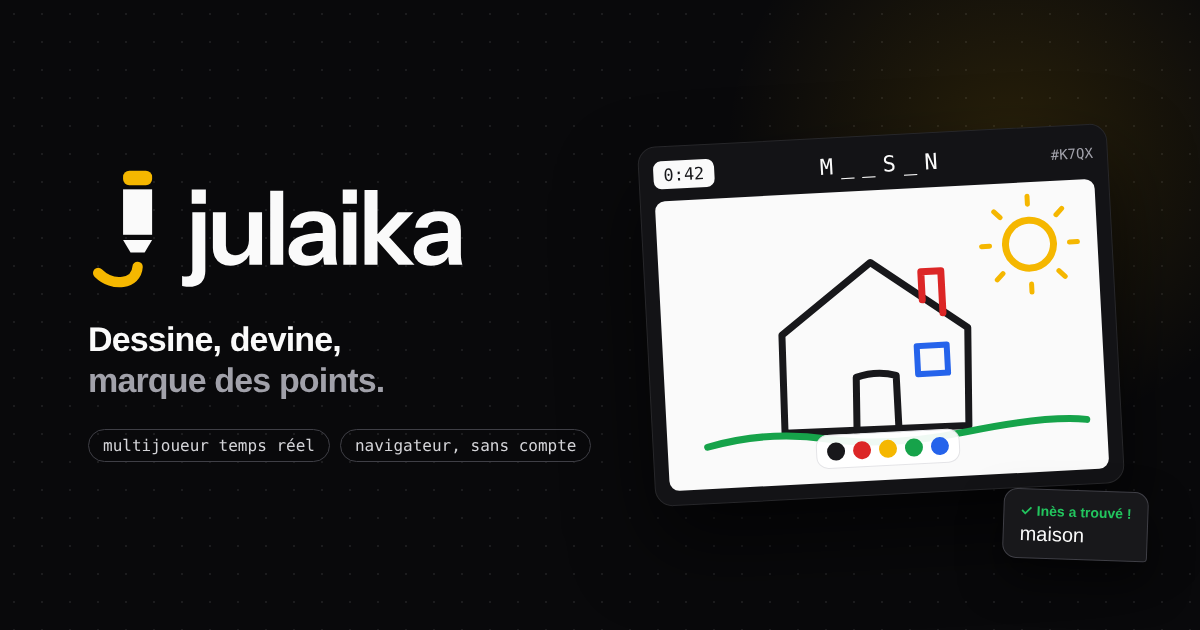
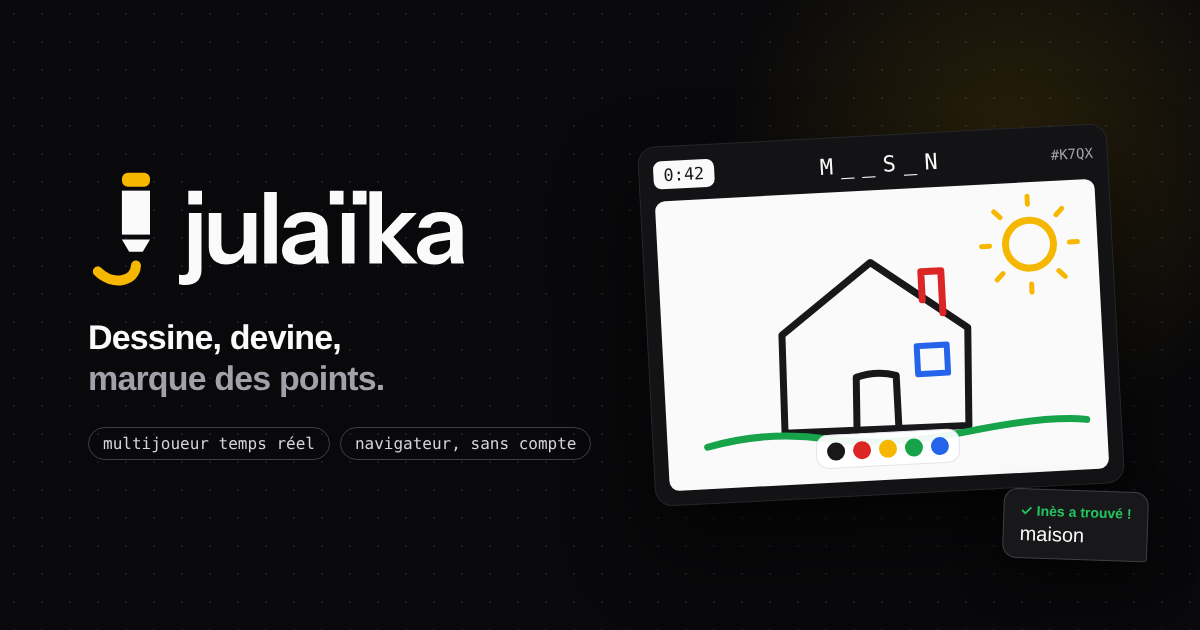
Écrit le nom julaïka (i tréma) partout où il s'affiche
Lettrage du logo revectorisé avec le tréma et un peu d'air autour,
cover, image d'aperçu, titre, balises Open Graph, manifest, accueil,
barre du jeu et README. Le code, les paquets et le domaine gardent julaika.

diff --git a/apps/client/index.html b/apps/client/index.html
@@ -5,21 +5,21 @@
     <meta name="viewport" content="width=device-width, initial-scale=1.0" />
     <meta name="theme-color" content="#fafafa" media="(prefers-color-scheme: light)" />
     <meta name="theme-color" content="#09090b" media="(prefers-color-scheme: dark)" />
-    <title>Julaika · Dessine, devine</title>
+    <title>Julaïka · Dessine, devine</title>
     <meta name="description" content="Dessine, devine, marque des points. Jeu de dessin multijoueur en temps réel, dans le navigateur et sans compte." />
     <link rel="icon" href="/favicon.ico" sizes="48x48" />
     <link rel="icon" href="/favicon.svg" type="image/svg+xml" />
     <link rel="apple-touch-icon" href="/apple-touch-icon.png" />
     <link rel="manifest" href="/site.webmanifest" />
     <meta property="og:type" content="website" />
-    <meta property="og:site_name" content="julaika" />
-    <meta property="og:title" content="julaika · Dessine, devine" />
+    <meta property="og:site_name" content="julaïka" />
+    <meta property="og:title" content="julaïka · Dessine, devine" />
     <meta property="og:description" content="Jeu de dessin multijoueur en temps réel. Crée un salon, partage le lien, dessine." />
     <meta property="og:url" content="https://julaika.2nbdigital.com/" />
     <meta property="og:image" content="https://julaika.2nbdigital.com/og-image.png" />
     <meta property="og:image:width" content="1200" />
     <meta property="og:image:height" content="630" />
-    <meta property="og:image:alt" content="Logo julaika à côté d'une partie en cours : une maison dessinée, devinée dans le chat." />
+    <meta property="og:image:alt" content="Logo julaïka à côté d'une partie en cours : une maison dessinée, devinée dans le chat." />
     <meta property="og:locale" content="fr_FR" />
     <meta name="twitter:card" content="summary_large_image" />
     <link rel="preconnect" href="https://fonts.googleapis.com" />

diff --git a/apps/client/src/components/TopBar.tsx b/apps/client/src/components/TopBar.tsx
@@ -37,7 +37,7 @@ export function TopBar() {
       </span>
       <span className="hidden items-center gap-1.5 sm:flex">
         <LogoMark className="h-6 w-auto" />
-        <b className="font-semibold tracking-[-0.05em]">julaika</b>
+        <b className="font-semibold tracking-[-0.035em]">julaïka</b>
       </span>
       <span className="text-sm text-muted">
         {room.phase === 'lobby' ? 'Salon' : `Manche ${Math.min(room.round, room.settings.rounds)}/${room.settings.rounds}`}

diff --git a/apps/client/src/components/Home.tsx b/apps/client/src/components/Home.tsx
@@ -36,7 +36,7 @@ export function Home() {
         <div className="mb-6 flex items-center gap-3">
           <LogoMark className="h-12 w-auto" />
           <div>
-            <h1 className="text-3xl font-semibold leading-tight tracking-[-0.055em]">julaika</h1>
+            <h1 className="text-3xl font-semibold leading-tight tracking-[-0.04em]">julaïka</h1>
             <p className="text-sm text-muted">Dessine, devine, marque des points.</p>
           </div>
         </div>

diff --git a/apps/server/src/index.ts b/apps/server/src/index.ts
@@ -150,4 +150,4 @@ function toBytes(data: unknown): Uint8Array {
   return new Uint8Array(0);
 }
 
-http.listen(PORT, () => console.log(`julaika : http://localhost:${PORT}`));
+http.listen(PORT, () => console.log(`julaïka : http://localhost:${PORT}`));

diff --git a/README.md b/README.md
@@ -1,5 +1,5 @@
 <p align="center">
-  <img src="docs/brand/cover.png" alt="julaika : dessine, devine, marque des points" width="100%" />
+  <img src="docs/brand/cover.png" alt="julaïka : dessine, devine, marque des points" width="100%" />
 </p>
 
 <p align="center">
@@ -108,6 +108,8 @@ VPS neuf sans autre site : `DOMAIN=jeu.exemple.com docker compose -f docker-comp
 (Caddy inclus, HTTPS automatique). Avec nginx à la place : `deploy/nginx.conf`.
 
 ## Identité
+
+Le nom s'écrit **julaïka**, avec un i tréma. Sans accent (`julaika`), il reste réservé au code, aux paquets, aux clés et au domaine.
 
 Le logo « crayon-J » : un crayon forme la barre du J, et le trait qu'il vient de tracer en dessine la boucle.
 Les fichiers sont dans [`docs/brand`](docs/brand) : `logo.svg` (fond clair), `logo-dark.svg` (fond sombre),
